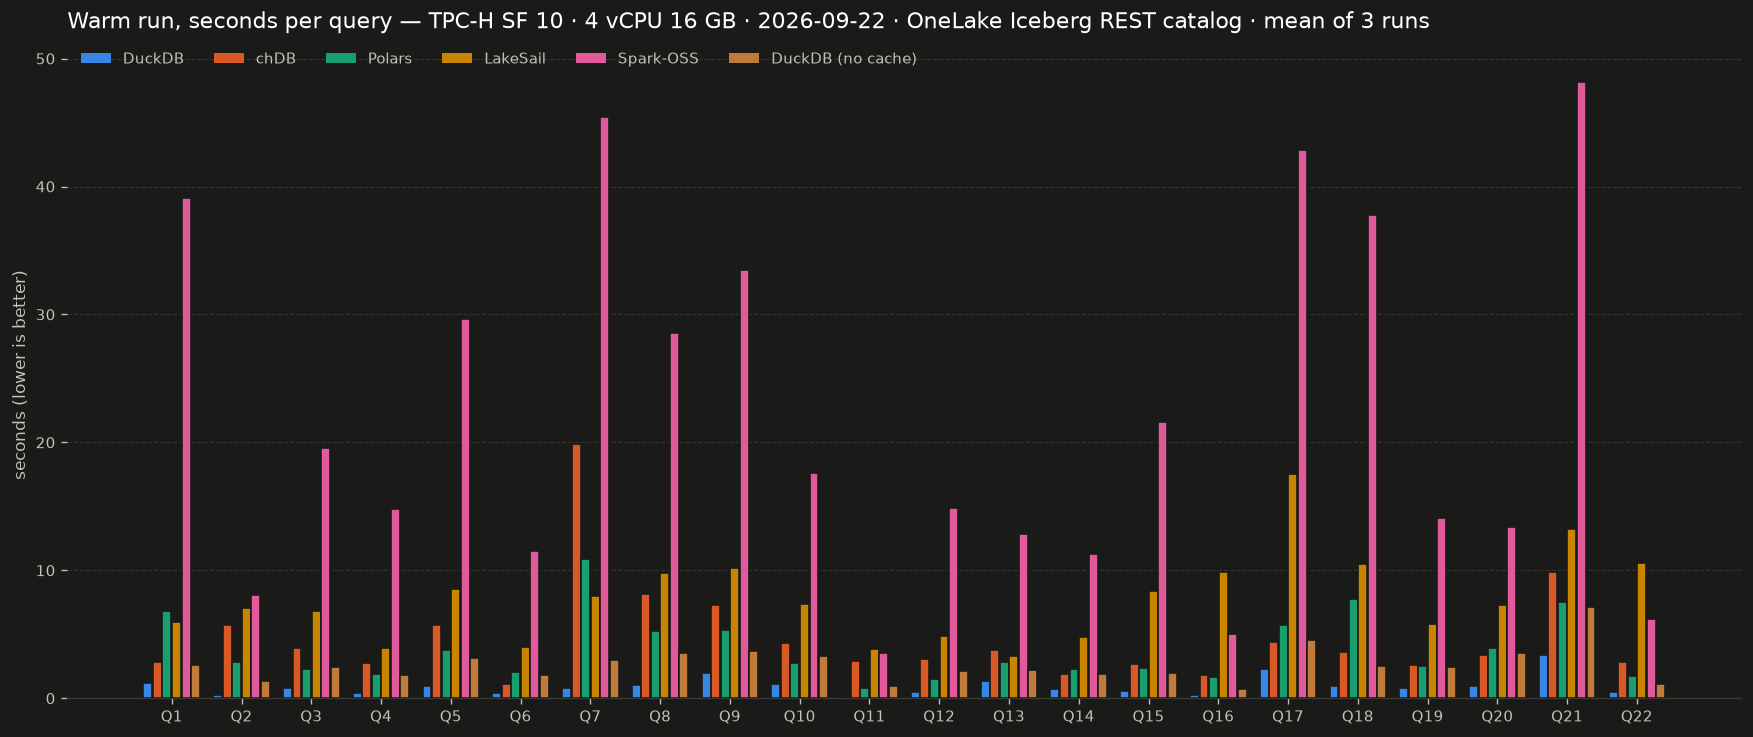
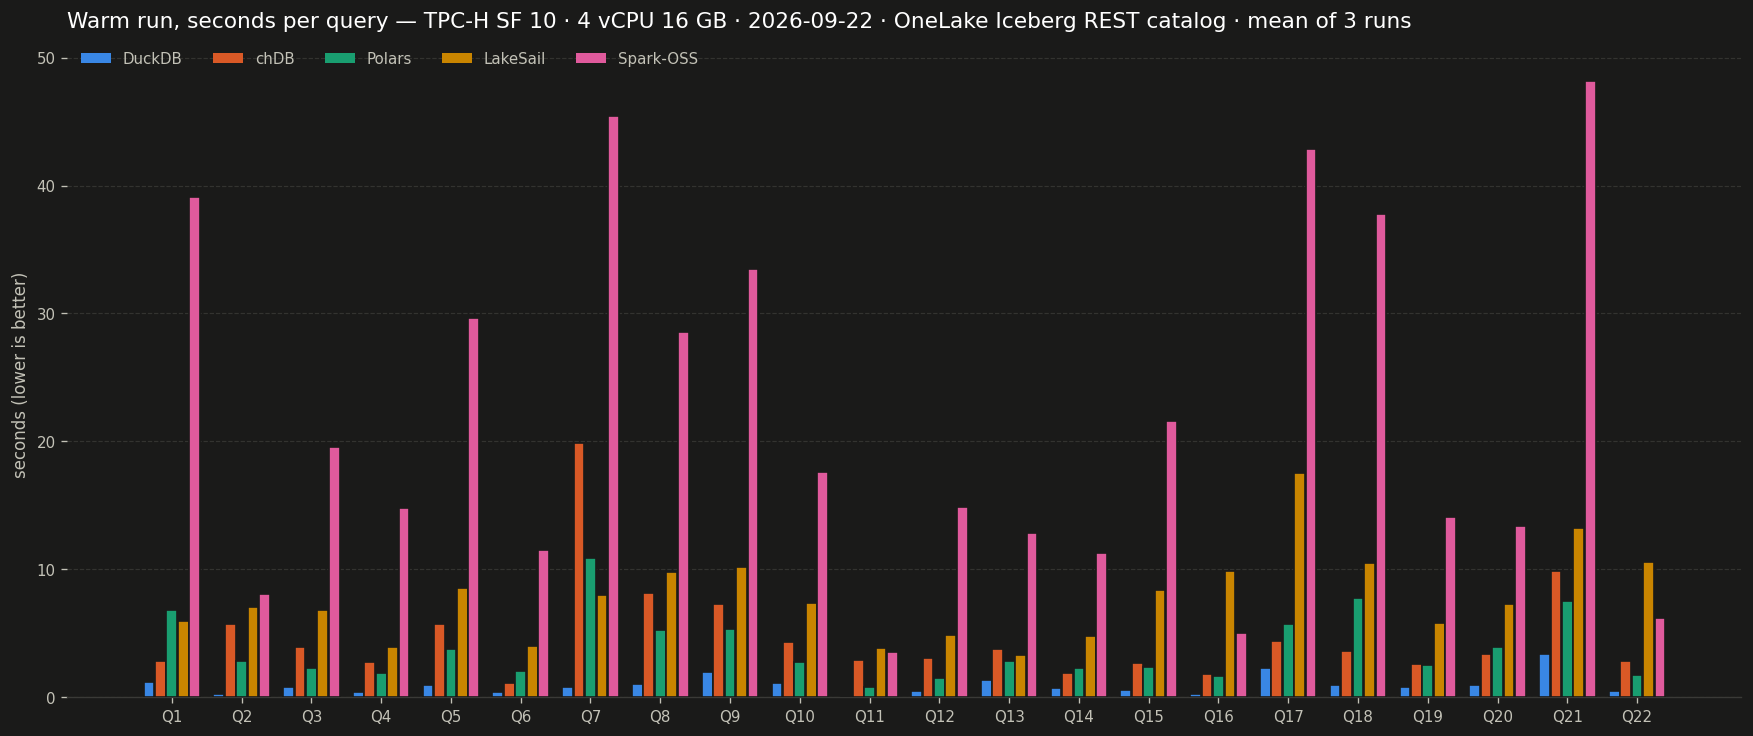
Drop the DuckDB no-cache control; Gluten/Velox joins TPC-H
The no-cache DuckDB was a one-off: it answered whether Polars is slower only for
want of a file cache. It leaves TPC-H as it already left TPC-DS -- engine module,
registry, dialect entry, smoke adapter, its pair test and the workflow defaults.
Its label stays in bench/charts.py so historical rows still render.

Gluten/Velox takes its place last in TPC-H's ENGINES and inherits slot 7 brown,
already validated in that position, so the palette is unchanged. It runs with
Velox's cache on -- the uncached Spark number is Spark-OSS. README row: yes.

docs/ re-rendered from the stored run 35673269660 through write_headline_docs;
no run file was written. Gluten appears on the charts from the next bench run.

diff --git a/bench/charts.py b/bench/charts.py
@@ -9,11 +9,9 @@ rank, so a run that omits an engine never repaints the survivors. Daft holds slo
 is not in bench.yml's engine list, which is the rule working as intended: adding it later must not
 recolour Spark.
 
-Slot 7, brown, is the DuckDB no-cache control, and it is last in ENGINES rather than next to
-DuckDB: validated in ENGINES order in both modes, whereas nothing passes the normal-vision floor
-between blue and orange -- teal and violet fail against blue, red, brown and green against
-orange. The totals chart sorts by cold time, so the two DuckDB bars sit together there regardless,
-and blue-brown-aqua passes.
+Slot 7, brown, is Gluten/Velox, last in ENGINES. It inherited the slot from the one-off DuckDB
+no-cache control, whose brown was validated in that last position in both modes -- nothing
+passes the normal-vision floor between blue and orange -- so the palette did not change.
 
 The palette is validated, not eyeballed (dataviz `scripts/validate_palette.js`), and re-validated
 whenever a slot is added -- every subset that can actually render has to pass, not just the full
@@ -44,7 +42,7 @@ LIGHT = {
     "lakesail_iceberg": "#eda100",  # slot 4 yellow
     "daft_iceberg": "#8a5cd1",  # slot 5 purple
     "pyspark_iceberg": "#d6468f",  # slot 6 magenta
-    "duckdb_nocache_iceberg": "#a8642a",  # slot 7 brown
+    "pyspark_gluten_iceberg": "#a8642a",  # slot 7 brown
 }
 DARK = {
     "duckdb_iceberg": "#3987e5",
@@ -53,7 +51,7 @@ DARK = {
     "lakesail_iceberg": "#c98500",
     "daft_iceberg": "#9b6ee0",
     "pyspark_iceberg": "#e05a9c",
-    "duckdb_nocache_iceberg": "#c07a3a",
+    "pyspark_gluten_iceberg": "#c07a3a",
 }
 
 THEMES = {
@@ -94,6 +92,8 @@ LABEL = {
     "lakesail_iceberg": "LakeSail",
     "daft_iceberg": "Daft",
     "pyspark_iceberg": "Spark-OSS",
+    "pyspark_gluten_iceberg": "Gluten/Velox",
+    # Retired engine: its colour is gone, its label stays so historical rows still render.
     "duckdb_nocache_iceberg": "DuckDB (no cache)",
 }
 

diff --git a/.github/scripts/smoke_sql.py b/.github/scripts/smoke_sql.py
@@ -68,6 +68,7 @@ def selected_queries(n_queries: int) -> list[int]:
         return list(range(1, n_queries + 1))
     return sorted({int(q) for q in raw.split(",") if q.strip()})
 
+
 # Dummy GUIDs. Config wants them, phase 1 never uses them -- nothing here talks to Fabric.
 # Config.from_env() would demand the real secrets, and this job deliberately has none.
 LOCAL_CFG_IDS = ("00000000-0000-0000-0000-000000000000",) * 2
@@ -317,9 +318,6 @@ def _pyspark_gluten(cfg: Config, paths: dict[str, Path]):
 
 ADAPTERS = {
     "duckdb_iceberg": _duckdb,
-    # The adapter bypasses setup(), where the one difference lives, and reads local parquet: the
-    # external file cache is a remote-read concern, so the smoke is the same for both engines.
-    "duckdb_nocache_iceberg": _duckdb,
     "chdb_iceberg": _chdb,
     "polars_iceberg": _polars,
     "lakesail_iceberg": _lakesail,
@@ -406,9 +404,7 @@ def run(engine_name: str, data_dir: Path, out_dir: Path, suite: type[Config]) ->
     ok = len(numbers) - failed
     print(f"\n{engine_name} {engine.version}: {ok}/{len(numbers)} queries ran", flush=True)
     if failed:
-        print(
-            f"::error::{engine_name} cannot run {failed} of {len(numbers)} {suite.TITLE} queries"
-        )
+        print(f"::error::{engine_name} cannot run {failed} of {len(numbers)} {suite.TITLE} queries")
     return 1 if failed else 0
 
 

diff --git a/bench/tpch/engines/duckdb_iceberg.py b/bench/tpch/engines/duckdb_iceberg.py
@@ -8,9 +8,7 @@ cache DuckDB turns on by itself -- `enable_object_cache`, `enable_http_metadata_
 other engine here fetches the same files again on the second pass.
 
 `EXTERNAL_FILE_CACHE` is therefore SET explicitly, as the first statement of the session, so the
-setting is stated rather than inherited, and so duckdb_nocache_iceberg.py can flip it and change
-nothing else. That engine exists to put a number on how much of DuckDB's cold-to-warm gap is
-the cache.
+setting is stated rather than inherited.
 """
 
 from __future__ import annotations
@@ -22,7 +20,7 @@ from bench.config import CATALOG_CACHE_SECONDS, ICEBERG_ENDPOINT, Config, azure_
 class DuckDBIceberg:
     name = "duckdb_iceberg"
 
-    # DuckDB's own default. The one thing duckdb_nocache_iceberg.py changes.
+    # DuckDB's own default.
     EXTERNAL_FILE_CACHE = True
 
     def __init__(self, cfg: Config):

diff --git a/bench/tpch/config.py b/bench/tpch/config.py
@@ -26,10 +26,8 @@ ENGINES = (
     "lakesail_iceberg",
     "daft_iceberg",
     "pyspark_iceberg",
-    # LAST, not beside DuckDB. Position is legend and per-query bar order, and no seventh colour
-    # passes the palette validator between blue and orange (bench/charts.py says which failed).
-    # The totals chart sorts by cold time, so the two DuckDB bars land together there anyway.
-    "duckdb_nocache_iceberg",
+    # Spark with Gluten/Velox underneath, in the slot the one-off DuckDB no-cache control held.
+    "pyspark_gluten_iceberg",
 )
 
 TABLES = ("lineitem", "orders", "partsupp", "part", "customer", "nation", "region", "supplier")

diff --git a/.github/scripts/publish.py b/.github/scripts/publish.py
@@ -182,7 +182,7 @@ def write_headline_docs(run: Run, rows: list[dict], table, suite) -> None:
     """Charts and RESULTS.md, drawn from the suite's CURRENT engine roll only.
 
     The history keeps every engine that ever ran; the headline does not. An engine dropped from
-    a suite (TPC-DS's DuckDB no-cache control, 2026-09-23) would otherwise stay on the charts
+    a suite (the DuckDB no-cache control, 2026-09-23) would otherwise stay on the charts
     until it aged out of the recent-runs window.
     """
     import pyarrow as pa

diff --git a/bench/tpch/queries.py b/bench/tpch/queries.py
@@ -56,8 +56,6 @@ IDENT_STYLE = {
     # Daft: a flat namespace like Polars, but ANSI quoting -- see the note above.
     "daft_iceberg": "quoted",
     "duckdb_iceberg": "dotted",
-    # The same engine with one SET flipped; the dialect is DuckDB's.
-    "duckdb_nocache_iceberg": "dotted",
     # Spark has real multi-level namespaces, same as LakeSail.
     "pyspark_iceberg": "dotted",
     # Stock Spark plus a file cache; the dialect is Spark's.

diff --git a/bench/tpch/engines/__init__.py b/bench/tpch/engines/__init__.py
@@ -19,10 +19,6 @@ def get_engine(name: str, cfg: Config):
         from bench.tpch.engines.duckdb_iceberg import DuckDBIceberg
 
         return DuckDBIceberg(cfg)
-    if name == "duckdb_nocache_iceberg":
-        from bench.tpch.engines.duckdb_nocache_iceberg import DuckDBNoCacheIceberg
-
-        return DuckDBNoCacheIceberg(cfg)
     if name == "chdb_iceberg":
         from bench.tpch.engines.chdb_iceberg import ChdbIceberg
 

diff --git a/docs/RESULTS.md b/docs/RESULTS.md
@@ -9,7 +9,6 @@ Last run: `2026-09-22T00:46:24Z` · commit `c2871af` · [Actions run](https://gi
 | Engine | Version | Cold total | Warm total | Attach | Failed queries |
 |---|---|---:|---:|---:|---|
 | DuckDB | `2.0.0.dev2609121639` | 44.3s | 23.9s | 7.1s | — |
-| DuckDB (no cache) | `2.0.0.dev2609121639` | 80.2s | 57.9s | 4.7s | — |
 | Polars | `2.0.0-rc.2` | 100.4s | 97.3s | 7.5s | — |
 | chDB | `4.4.0` | 147.8s | 106.2s | 2.5s | — |
 | LakeSail | `0.7.1` | 222.6s | 261.2s | 2.4s | — |
@@ -21,33 +20,33 @@ Cold = first pass after attaching the catalog. Warm = the identical 22 statement
 
 Seconds, cold pass. `—` means the query failed; see Failures above.
 
-| Query | DuckDB | DuckDB (no cache) | Polars | chDB | LakeSail | Spark-OSS |
-|---|---|---|---|---|---|---|
-| Q1 | 8.68 | 24.93 | 11.28 | 11.34 | 13.60 | 42.51 |
-| Q2 | 4.08 | 1.52 | 5.80 | 11.65 | 11.90 | 10.18 |
-| Q3 | 5.50 | 3.18 | 3.78 | 9.13 | 9.68 | 37.80 |
-| Q4 | 2.01 | 2.04 | 2.57 | 4.45 | 6.09 | 11.32 |
-| Q5 | 2.45 | 3.19 | 3.92 | 6.51 | 11.92 | 26.32 |
-| Q6 | 0.50 | 1.93 | 1.99 | 1.53 | 5.56 | 7.42 |
-| Q7 | 0.96 | 2.79 | 10.42 | 17.65 | 11.22 | 40.10 |
-| Q8 | 1.62 | 3.48 | 7.11 | 8.05 | 14.12 | 23.74 |
-| Q9 | 2.13 | 3.68 | 7.70 | 7.18 | 13.18 | 31.40 |
-| Q10 | 1.86 | 2.77 | 5.38 | 4.70 | 10.55 | 13.34 |
-| Q11 | 0.15 | 0.86 | 3.13 | 3.81 | 6.05 | 2.92 |
-| Q12 | 0.78 | 2.17 | 1.61 | 2.58 | 7.45 | 9.74 |
-| Q13 | 1.85 | 2.28 | 4.17 | 3.49 | 4.20 | 11.42 |
-| Q14 | 0.83 | 2.46 | 2.10 | 1.99 | 6.80 | 7.43 |
-| Q15 | 0.62 | 1.28 | 1.43 | 2.83 | 12.12 | 19.78 |
-| Q16 | 0.26 | 0.64 | 0.81 | 2.00 | 3.66 | 5.05 |
-| Q17 | 2.35 | 4.71 | 5.23 | 4.24 | 12.87 | 36.76 |
-| Q18 | 1.48 | 2.68 | 7.71 | 25.79 | 16.38 | 31.93 |
-| Q19 | 0.92 | 1.88 | 2.12 | 2.60 | 9.18 | 9.18 |
-| Q20 | 1.12 | 3.01 | 3.43 | 4.04 | 11.23 | 9.04 |
-| Q21 | 3.55 | 7.47 | 7.67 | 9.32 | 19.56 | 37.19 |
-| Q22 | 0.55 | 1.23 | 1.07 | 2.89 | 5.27 | 5.27 |
+| Query | DuckDB | Polars | chDB | LakeSail | Spark-OSS |
+|---|---|---|---|---|---|
+| Q1 | 8.68 | 11.28 | 11.34 | 13.60 | 42.51 |
+| Q2 | 4.08 | 5.80 | 11.65 | 11.90 | 10.18 |
+| Q3 | 5.50 | 3.78 | 9.13 | 9.68 | 37.80 |
+| Q4 | 2.01 | 2.57 | 4.45 | 6.09 | 11.32 |
+| Q5 | 2.45 | 3.92 | 6.51 | 11.92 | 26.32 |
+| Q6 | 0.50 | 1.99 | 1.53 | 5.56 | 7.42 |
+| Q7 | 0.96 | 10.42 | 17.65 | 11.22 | 40.10 |
+| Q8 | 1.62 | 7.11 | 8.05 | 14.12 | 23.74 |
+| Q9 | 2.13 | 7.70 | 7.18 | 13.18 | 31.40 |
+| Q10 | 1.86 | 5.38 | 4.70 | 10.55 | 13.34 |
+| Q11 | 0.15 | 3.13 | 3.81 | 6.05 | 2.92 |
+| Q12 | 0.78 | 1.61 | 2.58 | 7.45 | 9.74 |
+| Q13 | 1.85 | 4.17 | 3.49 | 4.20 | 11.42 |
+| Q14 | 0.83 | 2.10 | 1.99 | 6.80 | 7.43 |
+| Q15 | 0.62 | 1.43 | 2.83 | 12.12 | 19.78 |
+| Q16 | 0.26 | 0.81 | 2.00 | 3.66 | 5.05 |
+| Q17 | 2.35 | 5.23 | 4.24 | 12.87 | 36.76 |
+| Q18 | 1.48 | 7.71 | 25.79 | 16.38 | 31.93 |
+| Q19 | 0.92 | 2.12 | 2.60 | 9.18 | 9.18 |
+| Q20 | 1.12 | 3.43 | 4.04 | 11.23 | 9.04 |
+| Q21 | 3.55 | 7.67 | 9.32 | 19.56 | 37.19 |
+| Q22 | 0.55 | 1.07 | 2.89 | 5.27 | 5.27 |
 
 ## History
 
-945 timed statements across 4 runs.
+900 timed statements across 4 runs.
 Raw data: one immutable JSON per run under [`results/`](../results/), flattened to [`data/tpch_results.csv`](data/tpch_results.csv).
 

diff --git a/README.md b/README.md
@@ -18,9 +18,9 @@
 | **LakeSail** | in-process Spark Connect, catalog via `SAIL_CATALOG__LIST` | yes |
 | **Polars** | `pl.scan_iceberg` over a pyiceberg `RestCatalog` | yes |
 | **Spark-OSS** | `spark.sql.catalog.… type=rest`, abfss via `WorkloadIdentityTokenProvider` | yes |
+| **Gluten/Velox** | Spark plugin, Velox ABFS connector over a OneLake SAS | yes |
 | **Daft** | `daft.read_iceberg` over a pyiceberg `Table` | no — 16/22, decimal overflow |
 | **Comet** | Spark plugin, native Iceberg reader | no — no `abfss` driver |
-| **Gluten/Velox** | Spark plugin, Velox ABFS connector | no — no published package |
 
 OneLake is the example here, not the requirement. Any catalog that exposes an Iceberg REST
 endpoint should work, and the raw data can sit on `abfss://`, `s3://` or anything else the engine
